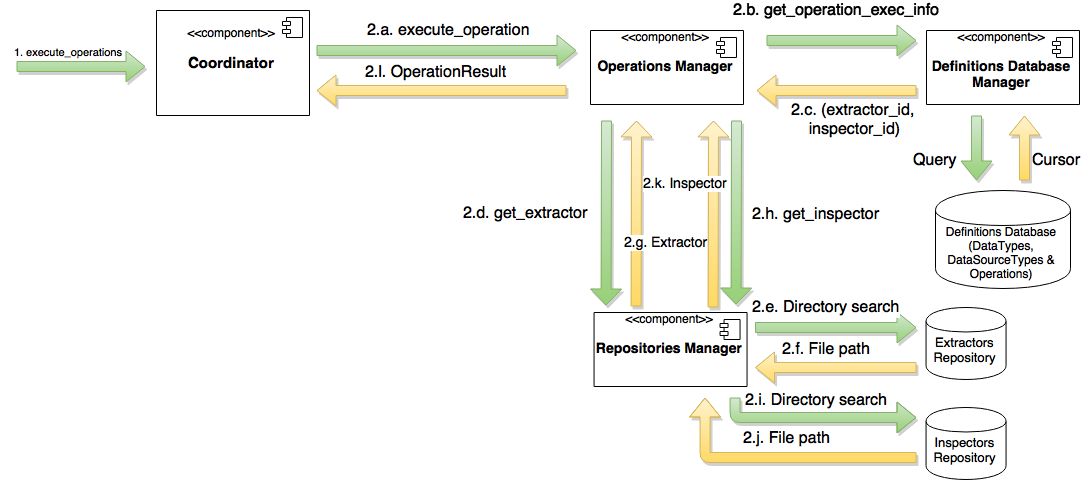
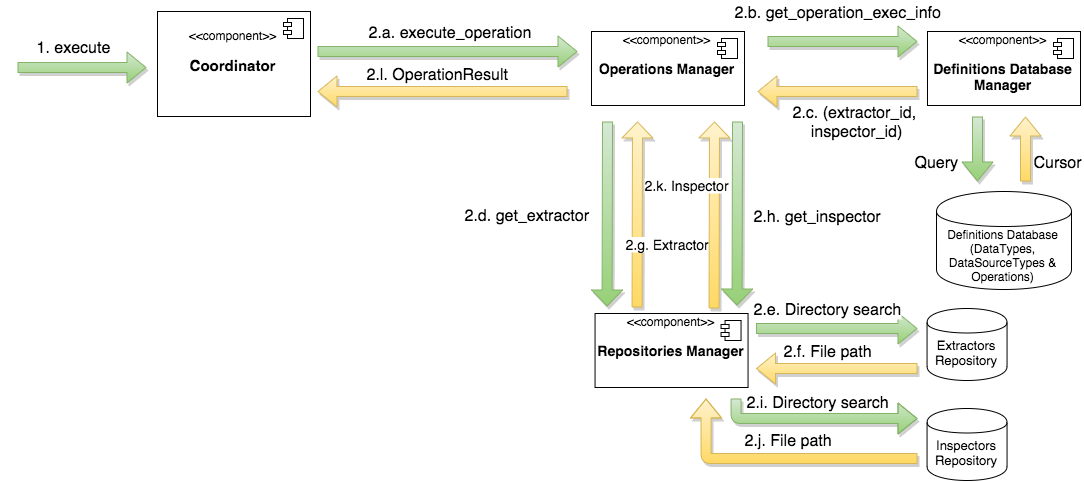
Se terminó la seccción Ejemplo de ejecución del Caso de Estudio.

diff --git a/chapters/6_Caso_de_Estudio.tex b/chapters/6_Caso_de_Estudio.tex
@@ -18,7 +18,7 @@ De esta forma, si tomamos en cuenta los pasos que se enumeran en el \autoref{app
 
 El inspector de SMS representa un caso sencillo, por lo cual nos servirá para describir los aspectos básicos que debemos tener en cuenta al desarrollar un inspector. Mientras que en el caso del inspector de Email veremos algunos aspectos más avanzados que agrega.
 
-\subsection{Inspector de SMS}
+\subsection{Inspector de SMS} \label{InspectorSMS}
 Este inspector extrae el tipo de dato \emph{SMSMessage} definido en CybOX. La fuente de datos considerada es la aplicación por defecto de SMS de Android. A continuación veamos cuales son los puntos que tuvimos en cuenta para su implementación.
 
 Para obtener la información sobre los SMS, debemos acceder a una base de datos SQLite (en este caso la misma se llama \emph{mmssms.db}). Para esto, podemos hacer uso del módulo \texttt{sqlite3} disponible en las bibliotecas estándar de Python.
@@ -248,7 +248,7 @@ c6d6285d9fdc4074c366ef0544f1b6b23d7604183f74c8b9cc6d0cc56b1db4c0
 </cybox:Observable>
 \end{xml}
 
-\section{Redes sociales}
+\section{Redes sociales} \label{RedesSociales}
 Las aplicaciones de redes sociales suelen manejar un gran volumen de datos personales, lo cual las hace una fuente de datos muy interesante. Desafortunadamente, CybOX no cuenta con objetos predefinidos que puedan representar adecuadamente a muchos de los tipos de datos que solemos encontrar en las mismas. Frente a esta situación, recordemos que contamos con la alternativa de extender las capacidades de CybOX diseñando un nuevo objeto CybOX para representar un nuevo tipo de dato.
 
 De esta forma, analizamos varias aplicaciones de redes sociales con el objetivo de encontrar un tipo de datos lo suficientemente interesante que fuera utilizado por las mismas. Observamos que uno de los conceptos en común que manejan es el de contacto. Si bien el nombre utilizado para el mismo varía dependiendo del contexto de cada una (amigo, vínculo, seguidor, etc), éste forma parte imprescindible en todas ellas. Por lo tanto, decidimos diseñar un nuevo objeto CybOX llamado \emph{Contact} para representarlo.
@@ -406,26 +406,12 @@ Optamos por utilizar un emulador con una imagen estándar de Android en la cual 
 
 Con el fin de automatizar este proceso, creamos un script Python que se encarga de implantar un \emph{dataset}. Específicamente, le llamamos \emph{dataset} a un archivo \emph{tar} que contiene tanto APKs de aplicaciones como directorios correspondientes a los que se encuentran en la ruta \emph{/data/data} de un dispositivo. De esta forma, al especificar el nombre de uno de estos archivos el script toma los directorios contenidos en el archivo tar y los copia a la ruta \emph{/data/data} del dispositivo e instala los apks de aplicaciones. Para ello simplemente utiliza los comandos \texttt{adb install} y \texttt{adb push}.
 
-Los datasets con los que contamos corresponden a los antes descritos sólo que únicamente contienen los datos de las aplicaciones utilizadas en el caso de estudio, estas son Facebook, WhatsApp y las aplicaciones por defecto de Email, SMS y Contactos de Android. Además en el caso de las aplicaciones de terceros (Facebook y WhatsApp) contienen los APKs de sus últimas versiones.
-
-A continuación se muestra cómo podemos utilizar el script para realizar la implantación del \emph{dataset} correspondiente al dispositivo HTC Evo 3D adquirido.
-\newline
-
-\begin{bash}
-$ ./load_datasets.py HTC_Evo_3D
-Installing 'com.facebook.katana-1.apk' into the device...
-Installing 'com.whatsapp-1.apk' into the device...
-Pushing 'com.whatsapp' data into the device...
-Pushing 'com.android.providers.telephony' data into the device...
-Pushing 'com.facebook.katana' data into the device...
-Pushing 'com.android.providers.contacts' data into the device...
-Pushing 'com.android.email' data into the device...
-The dataset was pushed successfully.
-\end{bash}
-
+Los \emph{datasets} con los que contamos corresponden a los antes descritos sólo que únicamente contienen los datos de las aplicaciones utilizadas en el caso de estudio, estas son Facebook, WhatsApp y las aplicaciones por defecto de Email, SMS y Contactos de Android. Además en el caso de las aplicaciones de terceros (Facebook y WhatsApp) contienen los APKs de sus últimas versiones.
 
 \section{Ejemplo de una ejecución}
-Comenzamos cargando los datos del dispositivo HTC obtenido utilizando el comando \texttt{./load\_data\_sets.py}
+Para terminar, veremos un ejemplo de ejecución interactiva de la herramienta en la cual primero utilizaremos el script visto en la sección anterior para cargar los datos en un emulador y luego realizaremos varias extracciones de datos utilizando varias de las operaciones que se desarrollaron a lo largo de este capítulo.
+
+Comenzamos ejecutando el script \texttt{load\_data\_sets} utilizando el \emph{dataset} correspondiente al dispositivo HTC Evo 3D adquirido.
 \newline
 
 \begin{bash}
@@ -439,7 +425,7 @@ Pushing 'com.android.providers.contacts' data into the device...
 The data set was pushed successfully.
 \end{bash}
 
-Iniciamos la herramienta ejecutando el comando \texttt{./andi.py}
+Una vez que contamos con los datos cargados en el emulador, iniciamos la herramienta en modo interactivo de la siguiente forma:
 \newline
 
 \begin{bash}
@@ -447,8 +433,7 @@ $ ./andi.py
 Android Inspector v1.0
 \end{bash}
 
-
-Establecemos la información del dispositivo con el comando \texttt{set\_device\_info}.
+El primer comando que vamos a utilizar es \texttt{set\_device\_info} para indicarle a \emph{Android Inspector} el modelo del dispositivo emulado que se encuentra conectado y la versión de Android que está corriendo.
 \newline
 
 \begin{bash}
@@ -456,7 +441,9 @@ Establecemos la información del dispositivo con el comando \texttt{set\_device\
 Device model 'GT-I9300' running Android version '4.3' was set as the current device information.
 \end{bash}
 
-Utilizamos el comando \texttt{list} para listar las operaciones soportadas por el dispositivo.
+De esta forma, cuando utilicemos los comandos \texttt{list} y \texttt{execute}, la información del dispositivo recién establecida será tomada en cuenta de forma implícita tanto para filtrar por las operaciones soportadas en el caso del primero como para pasarle esta información a cada operación que ejecuta en el caso del segundo (recordemos que la misma es utilizada por los inspectors al ejecutar una operación).
+
+Veamos la información de las operaciones que se encuentran disponibles para el dispositivo que establecimos utilizando el comando \texttt{list}.
 \newline
 
 \begin{bash}
@@ -486,7 +473,7 @@ Supported devices           Supported Ver.
 [GT-I9300, XT1053]          [2.3-4.4.4]
 \end{bash}
 
-Utilizamos el comando \texttt{execute} para ejecutar primero la operación que extrae SMS.
+Ahora que conocemos las operaciones que podemos ejecutar para este dispositivo podemos empezar a extraer los datos que deseamos. Por ejemplo, para extraer los mensajes de texto de la aplicación por defecto de mensajería de Android observamos que tenemos la operación \emph{EmailMessageAOSPEmail} que desarrollamos en la sección \ref{InspectorSMS}. De esa forma, podemos ejecutarla pasándole el nombre de la misma al comando \texttt{execute}.
 \newline
 
 \begin{bash}
@@ -500,7 +487,9 @@ COMPLETED. Data stored to 'results/SmsMessageAOSPSms_20150826_081415'.
 1 operation(s) completed successfully.
 \end{bash}
 
-Utiizamos el comando \texttt{execute} para ejecutar las operaciones que extraen datos de contactos de Facebook y WhatsApp.
+La salida del comando en este caso nos muestra que la operación que ejecutamos completó exitosamente. Además, nos indica el directorio en dónde quedaron almacenados tanto los datos extraídos como los archivos XML de CybOX conteniendo los datos examinados.
+
+El comando \texttt{execute} permite ejecutar múltiples operaciones, una detrás de la otra, si especificamos varias. Por ejemplo, podemos ejecutar las operaciones \emph{ContactFacebook} y \emph{ContactWhatsApp} que desarrollamos en la sección \ref{RedesSociales} para extraer los datos de contactos de estas dos aplicaciones.
 \newline
 
 \begin{bash}
@@ -519,7 +508,7 @@ COMPLETED. Data stored to 'results/ContactWhatsApp_20150826_084107'.
 2 operation(s) completed successfully.
 \end{bash}
 
-A continuación se puede ver la estructura de los datos resultantes de ejecutar las operaciones recién descritas.
+Utilizando el comando \texttt{tree} de Unix podemos observar la estructura de los directorios con los datos resultantes de las tres operaciones que ejecutamos.
 \newline
 
 \begin{bash}
@@ -549,24 +538,27 @@ $ tree -L 3
     |__ source_data.xml
 \end{bash}
 
-Como se puede ver en la imagen, cada operación almacena los datos en una carpeta independiente.
+Sería interesante observar una porción de los archivos XML que contienen los objetos CybOX producidos por las operaciones. Para esto, podemos utilizar la herramienta \texttt{cybox-to-html} \cite{stix-to-html} que produce una representación de los XML más clara en HTML. A continuación veremos un par de extractos de los objetos CybOX que contienen los archivos \emph{source\_data.xml} y \emph{inspected\_data.xml} correspondientes a la ejecución de la operación \emph{ContactFacebook}.
 
-Finalmente, utilizando la herramienta cybox-to-html podemos ver los datos inspeccionados de una forma más clara. En la siguiente imagen se muestra el objeto File que representa a la base de datos fb.db de la cual se extrajeron los contactos:
+En el archivo \emph{source\_data.xml} podemos encontrar el siguiente objeto File:
 \newline
 
 \begin{figure}[H]
     \begin{center}
         \includegraphics[width=\textwidth]{figures/FbDBFileObject}
-        \caption{Objeto File que representa a la base de datos fb.db}
+        \caption{Objeto \emph{File} que representa al archivo de base de datos \emph{fb.db} del cual se extrajeron los datos sobre los contactos de Facebook.}
     \end{center}
 \end{figure}
 
-A continuación se pueden ver algunos de objetos Contact que representan a los contactos encontrados:
+En tanto, en el archivo \emph{inspected\_data.xml} podemos encontrar una serie de objetos \emph{Contact} representando a cada uno de los contactos de Facebook obtenidos. Veamos un par de ellos:
 \newline
 
 \begin{figure}[H]
     \begin{center}
-        \includegraphics[width=\textwidth]{figures/FBContactObjects}
-        \caption{Objetos Contact que representan los contactos encontrados}
+        \includegraphics[width=\textwidth]{figures/contact1}
+        \includegraphics[width=\textwidth]{figures/contact2}
+        \caption{Información de los dos primeros objetos \emph{Contact} del archivo \emph{inspected\_data.xml}.}
     \end{center}
 \end{figure}
+
+De esta forma, vimos una sesión completa de ejecución de la herramienta en la cual realizamos diversas extracciones de datos y examinamos su representación. Queda en manos del investigador forense cómo utilizar esta información expresada mediante el lenguaje CybOX para realizar diversos análisis a partir de la misma.

diff --git a/chapters/3_Analisis.tex b/chapters/3_Analisis.tex
@@ -140,11 +140,11 @@ Finalmente, el usuario tiene a su disposición el siguiente conjunto de comandos
     \begin{longtable}{ | >{\bfseries}m{4.8cm} | >{\itshape}m{8.2cm} | >{\itshape}c |}
     \hline
     \BlackCell{Comando} & \BlackCell{Descripción} \\ \hline \hline
-    set\_device\_info & Permite especificar la información del dispositivo en el modo de ejecución interactivo. Esto hace posible que podemos omitir dicha información de los comandos \texttt{list\_operations} y \texttt{execute\_operations} posteriores. \\ \hline
+    set\_device\_info & Permite especificar la información del dispositivo en el modo de ejecución interactivo. Esto hace posible que podemos omitir dicha información de los comandos \texttt{list} y \texttt{execute} posteriores. \\ \hline
     
-    list\_operations & Lista las operaciones disponibles del sistema. Es de especial valor su uso en el modo interactivo, ya que permite al usuario descubrir las operaciones y sus características. \\ \hline
+    list & Lista las operaciones disponibles del sistema. Es de especial valor su uso en el modo interactivo, ya que permite al usuario descubrir las operaciones y sus características. \\ \hline
     
-    execute\_operations & Permite ejecutar un conjunto de operaciones tanto en modo interactivo como en modo batch. \\ \hline
+    execute & Permite ejecutar un conjunto de operaciones tanto en modo interactivo como en modo batch. \\ \hline
     
     add\_operation & Agrega una nueva operación al sistema. \\ \hline
     
@@ -168,7 +168,7 @@ Finalmente, el usuario tiene a su disposición el siguiente conjunto de comandos
 \begin{enumerate}
 \item El usuario ejecuta la herramienta sin ningún parámetro adicional.
 \item El sistema inicia una sesión de ejecución interactiva.
-\item El usuario ejecuta el comando \texttt{list\_operations} indicando el tipo de datos, la fuente de datos (y la información del dispositivo en caso de no haber utilizado el comando \texttt{set\_device\_info}).
+\item El usuario ejecuta el comando \texttt{list} indicando el tipo de datos, la fuente de datos (y la información del dispositivo en caso de no haber utilizado el comando \texttt{set\_device\_info}).
 \item El sistema retorna la información de todas las operaciones que cumplen con los valores indicados. Para cada operación se muestra:
     \begin{itemize}
     \item Identificador de la operación.
@@ -176,7 +176,7 @@ Finalmente, el usuario tiene a su disposición el siguiente conjunto de comandos
     \item Fuente de datos utilizada para extraer los datos.
     \item Información de versiones de Android y modelos de dispositivos soportados.
     \end{itemize}
-\item El usuario ejecuta el comando \texttt{execute\_operations} indicando los identificadores de las operaciones que desea ejecutar (y la información del dispositivo en caso de no haber utilizado el comando \texttt{set\_device\_info}).
+\item El usuario ejecuta el comando \texttt{execute} indicando los identificadores de las operaciones que desea ejecutar (y la información del dispositivo en caso de no haber utilizado el comando \texttt{set\_device\_info}).
 \item Para cada operación ejecutada:
     \begin{itemize}
     \item Si completó exitosamente, el sistema indica la ruta al directorio en donde fue almacenada la información obtenida.
@@ -192,7 +192,7 @@ Finalmente, el usuario tiene a su disposición el siguiente conjunto de comandos
 \item 3A.
     \begin{enumerate}
     \item El usuario ejecuta el comando \texttt{set\_device\_info} indicando la información del dispositivo.
-    \item El sistema guarda la información del dispositivo. Esta información será tenida en cuenta por los comandos \texttt{list\_operations} y \texttt{execute\_operations}.
+    \item El sistema guarda la información del dispositivo. Esta información será tenida en cuenta por los comandos \texttt{list} y \texttt{execute}.
     \item Retorna al paso 3 del flujo principal.
     \end{enumerate}
 \end{itemize}
@@ -200,7 +200,7 @@ Finalmente, el usuario tiene a su disposición el siguiente conjunto de comandos
 \begin{itemize}
 \item 5A.
     \begin{enumerate}
-    \item El usuario ejecuta el comando \texttt{execute\_operations} indicando los identificadores de las operaciones que desea ejecutar, pero no indica la información sobre el dispositivo.
+    \item El usuario ejecuta el comando \texttt{execute} indicando los identificadores de las operaciones que desea ejecutar, pero no indica la información sobre el dispositivo.
     \item El sistema retorna un mensaje de error indicando que es necesario conocer la información del dispositivo.
     \item Se retorna al paso 5 del flujo principal.
     \end{enumerate}
@@ -218,7 +218,7 @@ La diferencia más importante entre este modo de ejecución de operaciones y el 
 
 \subsubsection*{Flujo principal}
 \begin{enumerate}
-\item \begin{sloppypar} El usuario ejecuta la herramienta pasándole como parámetro \texttt{execute\_operations}, los identificadores de las operaciones que desea ejecutar y la información sobre el dispositivo.\end{sloppypar}
+\item \begin{sloppypar} El usuario ejecuta la herramienta pasándole como parámetro \texttt{execute}, los identificadores de las operaciones que desea ejecutar y la información sobre el dispositivo.\end{sloppypar}
 \item Para cada operación ejecutada:
     \begin{itemize}
     \item Si completó exitosamente, el sistema indica la ruta al directorio en donde fue almacenada la información obtenida.
@@ -231,7 +231,7 @@ La diferencia más importante entre este modo de ejecución de operaciones y el 
 \begin{itemize}
 \item 1A.
     \begin{enumerate}
-    \item \begin{sloppypar} El usuario ejecuta la herramienta pasándole como parámetro \texttt{execute\_operations}, pero no indica los identificadores de las operaciones a ejecutar y/o la información sobre el dispositivo.\end{sloppypar}
+    \item \begin{sloppypar} El usuario ejecuta la herramienta pasándole como parámetro \texttt{execute}, pero no indica los identificadores de las operaciones a ejecutar y/o la información sobre el dispositivo.\end{sloppypar}
     \item El sistema retorna un mensaje de error indicando los datos omitidos.
     \item Fin del caso de uso.
     \end{enumerate}

diff --git a/chapters/4_Disenio.tex b/chapters/4_Disenio.tex
@@ -22,7 +22,7 @@ Estructura utilizada para facilitar la representación de una fuente de dato, es
 De esta forma, una posible instancia de fuente de dato podría contar con: type = 'Application' y parameters = \{('package\_name', 'com.example.app')\}.
 
 \subsection{OperationInfo}
-Estructura utilizada para representar la información de una operación. La misma es utilizada por el comando \texttt{list\_operations} al desplegar dicha información al usuario. \newline
+Estructura utilizada para representar la información de una operación. La misma es utilizada por el comando \texttt{list} al desplegar dicha información al usuario. \newline
 
 \footnotesize
     \renewcommand*{\arraystretch}{1.4}
@@ -418,14 +418,14 @@ Esta tabla se utiliza para almacenar los distintos dispositivos soportados por l
 
 \section{Descripción de los comandos}
 \subsection*{SetDeviceInfo}
-El comando permite indicarle al sistema la información del dispositivo que va a ser utilizado. Esto resulta muy útil al trabajar en el modo interactivo ya que evita que tengamos que indicar esta información como parámetro a los comandos \texttt{list\_operations} y \texttt{execute\_operations} cada vez que los deseamos utilizar. En caso que se le indique de todas formas como parámetro la información del dispositivo a estas operaciones y ya hayamos utilizado el comando \texttt{set\_device\_info}, la información indicada por parámetro será la considerada por el comando.
+El comando permite indicarle al sistema la información del dispositivo que va a ser utilizado. Esto resulta muy útil al trabajar en el modo interactivo ya que evita que tengamos que indicar esta información como parámetro a los comandos \texttt{list} y \texttt{execute} cada vez que los deseamos utilizar. En caso que se le indique de todas formas como parámetro la información del dispositivo a estas operaciones y ya hayamos utilizado el comando \texttt{set\_device\_info}, la información indicada por parámetro será la considerada por el comando.
 
-\subsection*{ListOperations}
+\subsection*{List}
 El comando es de utilidad al trabajar en modo interactivo para consultar las operaciones disponibles en el sistema y obtener información de las mismas antes de utilizarlas \hyperref[reqA2]{(Req. A2)}.
 
 Los parámetros de este comando (\emph{data\_type}, \emph{data\_source}, \emph{device\_info}) actúan como filtros de búsqueda. Esto es, si a un parámetro se le indica un valor, se retornarán sólo aquellas operaciones que lo cumplen. En caso de dejar vacío un parámetro, no estamos imponiendo condición alguna sobre el mismo.
 
-\subsection*{ExecuteOperations}
+\subsection*{Execute}
 El comando es utilizado con el objetivo de ejecutar un conjunto de operaciones \hyperref[reqA3]{(Req. A3)}, tanto en modo interactivo como en modo batch. De esta forma, el comando recibe la lista de los nombres de las operaciones a ejecutar y la información del dispositivo. En caso de estar ejecutando en modo interactivo, la especificación de la información del dispositivo es opcional si el comando \texttt{set\_device\_info} fue ejecutado previamente.
 
 Para cada operación se indica si la misma tuvo éxito o no. En caso de éxito, se indica el directorio en que fueron almacenados los datos resultantes de la operación, mientras que en caso de falla se indica el motivo de la misma.

diff --git a/chapters/7_Trabajo_a_Futuro.tex b/chapters/7_Trabajo_a_Futuro.tex
@@ -10,9 +10,9 @@ Veamos dos tipos de condiciones nuevas que consideramos que sería verdaderament
 
 Para establecer la información del dispositivo contamos con el comando \texttt{set\_device\_info}. Actualmente el mismo solicita modelo del dispositivo y versión de Android que corre. Al agregar condiciones, como las mencionadas anteriormente, este comando debe pasar a solicitar esta información para que luego las operaciones puedan utilizar condiciones en función de la misma.
 
-El comando \texttt{list\_operations}, que actualmente permite filtrar operaciones según sus campos (incluyendo modelo de dispositivo y versión de Android) pasaría a permitir filtrar operaciones también según los diversos tipos de condiciones. No casualmente la forma en que implementamos en el prototipo dicho comando hace que agregar esta funcionalidad sea muy sencillo. Los cambios que se requieren son agregar una nueva clase que herede de la clase abstract \emph{Filter} para cada tipo de condición (de forma similar a como hoy tenemos la clase \emph{AndroidVersionFilter} para filtrar por versión de Android) y luego ajustar el módulo de parsing de la entrada de línea de comando.
+El comando \texttt{list}, que actualmente permite filtrar operaciones según sus campos (incluyendo modelo de dispositivo y versión de Android) pasaría a permitir filtrar operaciones también según los diversos tipos de condiciones. No casualmente la forma en que implementamos en el prototipo dicho comando hace que agregar esta funcionalidad sea muy sencillo. Los cambios que se requieren son agregar una nueva clase que herede de la clase abstract \emph{Filter} para cada tipo de condición (de forma similar a como hoy tenemos la clase \emph{AndroidVersionFilter} para filtrar por versión de Android) y luego ajustar el módulo de parsing de la entrada de línea de comando.
 
-Por último, debemos notar que el comando \texttt{execute\_operations} continuará recibiendo como parámetro un objeto del tipo \emph{DeviceInfo} el cual contendrá la nueva información del dispositivo. Pensamos que sería razonable que esta información además de ser pasada al inspector como sucede actualmente, también aprovechemos a pasarla al extractor ya que podemos tener datos que le sean relevantes como si el dispositivo cuenta con el modo debug activado mencionado antes.
+Por último, debemos notar que el comando \texttt{execute} continuará recibiendo como parámetro un objeto del tipo \emph{DeviceInfo} el cual contendrá la nueva información del dispositivo. Pensamos que sería razonable que esta información además de ser pasada al inspector como sucede actualmente, también aprovechemos a pasarla al extractor ya que podemos tener datos que le sean relevantes como si el dispositivo cuenta con el modo debug activado mencionado antes.
 
 
 \section{Automatización de la obtención de la información del dispositivo}

diff --git a/chapters/1_Introduccion.tex b/chapters/1_Introduccion.tex
@@ -7,7 +7,7 @@ Aunque el área de \emph{mobile forensics} pasó a ocupar un lugar importante de
 
 Una etapa fundamental que forma parte de cualquier proceso forense informático es la de obtener datos de un dispositivo. En este sentido, los dispositivos móviles presentan varios desafíos para llevar a cabo esta etapa de manera adecuada. En el \autoref{chap:EstadoDelArte} estudiaremos en detalle varios de ellos. En particular, veremos por qué no es una tarea sencilla obtener una copia bit-a-bit del medio de almacenamiento primario de un dispositivo móvil como lo suele ser en el caso de una PC.
 
-La diversidad con que son diseñados los dispositivos móviles y las diversas interfaces de hardware y software que presentan son un factor que juega en contra para lograr contar con un proceso de obtención de datos uniforme para los dispositivos móviles. Esto lleva a que los investigadores forense deban a menudo poseer una multitud de herramientas para extraer los datos de los diversos dispositivos móviles a los que se enfrentan. El costo de las herramientas y el aprendizaje que conlleva cada una de ellas imponen un obstáculo significativo para muchas organizaciones.
+La diversidad con que son diseñados los dispositivos móviles y las diversas interfaces de hardware y software que presentan son factores que juegan en contra para lograr contar con un proceso de obtención de datos uniforme para los dispositivos móviles. Esto lleva a que los investigadores forense deban a menudo poseer una multitud de herramientas para extraer los datos de los diversos dispositivos móviles a los que se enfrentan. El costo de las herramientas y el aprendizaje que conlleva cada una de ellas imponen un obstáculo significativo para muchas organizaciones.
 
 Si bien el tipo de información que deseamos extraer de los dispositivos móviles usualmente es el mismo a lo largo de cualquier fabricante o sistema operativo, el formato en que dicha información se encuentra o la forma que debemos utilizar para acceder a ella pueden diferir.
 

diff --git a/apendix/B_diagramas_flujo.tex b/apendix/B_diagramas_flujo.tex
@@ -3,21 +3,14 @@
 \begin{figure}[H]
     \begin{center}
         \includegraphics[width=0.95\textwidth]{figures/list_operations}
-        \caption{Flujo de ejecución del comando \texttt{list\_operations}}
+        \caption{Flujo de ejecución del comando \texttt{list}}
     \end{center}
 \end{figure}
 
 \begin{figure}[H]
     \begin{center}
-        \includegraphics[width=\textwidth]{figures/add_operation}
-        \caption{Flujo de ejecución del comando \texttt{add\_operation}}
-    \end{center}
-\end{figure}
-
-\begin{figure}[H]
-    \begin{center}
-        \includegraphics[width=\textwidth]{figures/remove_operation}
-        \caption{Flujo de ejecución del comando \texttt{remove\_operation}}
+        \includegraphics[width=\textwidth]{figures/execute_operations}
+        \caption{Flujo de ejecución del comando \texttt{execute}}
     \end{center}
 \end{figure}
 

diff --git a/main.tex b/main.tex
@@ -17,7 +17,6 @@
 \include{resumen}
 
 \include{chapters/1_Introduccion}
-\blankpage
 \include{chapters/2_Estado_del_Arte}
 \include{chapters/3_Analisis}
 \blankpage
